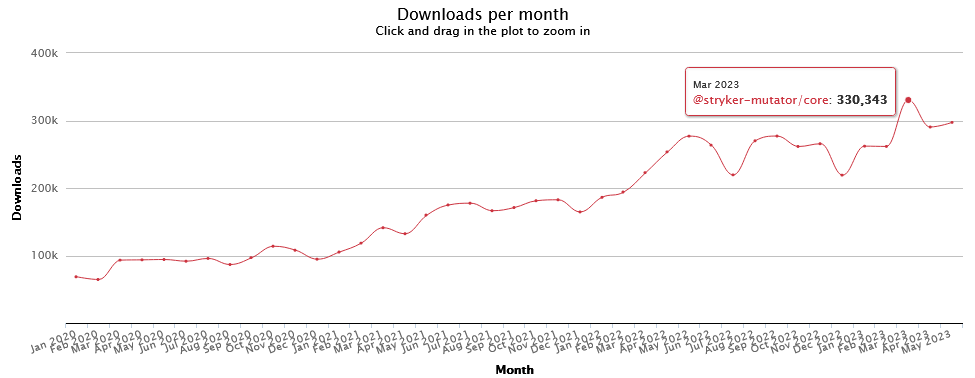
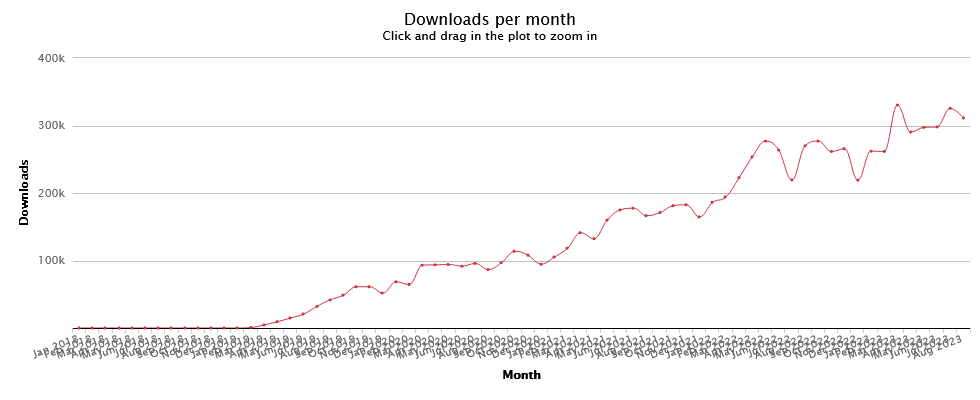
Add Q3 StrykerJS

diff --git a/2022-q4/meeting-notes.md b/2022-q4/meeting-notes.md
@@ -1,0 +1,96 @@
+# Notulen open source council
+
+> 07/12/2022
+
+## Updates
+
+- Rouke gaat een meeting / procedure starten voor selectie nieuwe sponsorprojecten
+- Bezig met opstellen beleid / visie bijdragen aan open source vanuit management
+- Hacktoberfest
+  - 55 aanmeldingen, 39 deelnemers, 51 PRs/issues/blogs
+  - Volgend jaar iets eerder in oktober
+
+## Rondje langs de projecten
+
+### StrykerJS (Nico)
+
+- 2,6M downloads dit jaar, >6M totaal
+  - Aan het stagneren? Iets minder stijging
+- v6.3 gereleased -> Allemaal tijdens hacktoberfest
+  - Jest: support more config files
+  - Emojis in clear text reporter
+  - pnmp support
+  - disableTypechecks
+  - Verbeteringen init
+  - Worker count env variable
+  - etc
+- Nieuw team: Danny, Thierry & Odin; Simon legt werkzaamheden neer
+
+### Stryker.NET (Richard)
+
+- 787k total downloads, 577 daily
+- Nieuwe features
+  - Solution context run
+  - Automatically discover solution file
+  - Math class mutator
+  - ??= mutator
+  - a ?? b mutator
+  - Object initializer mutator
+- Bugfixes
+  - Een hoop
+- Nieuw teamlid: Liam (welkom!)
+- What's next:
+  - Test results toevoegen aan report
+  - Performance tunen
+  - Lijst met issues en feature requests
+- Nieuwe afstudeerder: real time reports updaten tijdens draaien van stryker
+
+### Styker4s (Hugo)
+
+- 19k downloads per maand
+- Volgende release:
+  - Betere report
+  - Betere logging
+  - Parsing en mutating refactored
+  - Contributie: cleanTempDir
+  - Contributie: staticTempDir
+
+### Maven (Giovanni)
+
+- Niet veel aan Maven gewerkt, wel bij Hacktoberfest
+- Hacktoberfest: documentatie / features
+- What's next:
+  - Zien waar je dependencies vandaan komen (Maarten, work in progress)
+  - Nieuwe flag voor command line, `--status`, om te kijken of installatie gelukt is
+
+### Research center (Jan-Jelle)
+
+- WO afstudeeropdrachten
+  - Jan-Jelle doet een oproep om meer WO afstudeeropdrachten. 
+  - We hebben nu 1 generieke "Maak Stryker Sneller" opdracht, maar als je al een specifiek idee hebt hoe dan maakt de opdracht meer kans om gekozen te worden.
+
+- Er zijn nu 2 groepjes bezig met voor het ISEP project ("Pas software toe in de praktijk bij een bedrijf")
+  - Groepje 1 (Rouke)
+    - Performance Stryker verbeteren
+  - Groepje 2 (Hugo)
+    - Styker4JVM
+      - Begonnen met samenvoegen Stryker4Kotlin en Stryker4S
+    - Wekelijkse meeting, veel code aan het aanpassen
+  - Nieuwe ideeën voor nieuwe software opdrachten welkom
+    - 3 a 4 studenten, 2 dagen per week voor 6 maanden.
+    - Misschien vervolgopdracht voor StrykerJVM / Performance Stryker verbeteren
+
+## Rondvraag
+
+- Risico's Stryker voor Info Support
+  - Afweging risico's en voordelen
+  - In gesprek met legal
+
+- Is de open source community een "officiële" community?
+  - Nee, maar heeft wel die ambitie
+  - Moet nog visie e.d. komen
+
+- Is er nog open source tijd?
+  - Ruimte voor 1FTE, 1800 uur
+  - 876 uur opgemaakt
+  - Dus ja

diff --git a/2023-q3/slides/10-stryker-js/20-new-features.md b/2023-q3/slides/10-stryker-js/20-new-features.md
@@ -1,0 +1,9 @@
+### 🎁 New features 
+
+![ava](/img/ava.png)
+
+- [#4276](https://github.com/stryker-mutator/stryker-js/issues/4276) Configurable bail behavior for tap-runner
+- [#4266](https://github.com/stryker-mutator/stryker-js/issues/4266) EAllow using "any" testing framework with TAP support  
+
+See https://stryker-mutator.io/docs/stryker-js/tap-runner/#examples
+

diff --git a/2023-q3/slides/10-stryker-js/10-stats.md b/2023-q3/slides/10-stryker-js/10-stats.md
@@ -1,0 +1,12 @@
+### Stats
+
+- 2,386,200 downloads year to date (+25.6% YoY)
+- 9.4M downloads in total
+
+---
+
+[![](/img/downloads-stryker-js.png)](https://npm-stat.com/charts.html?package=%40stryker-mutator%2Fcore&from=2018-01-01&to=2023-09-01) <!-- .element target="_blank" -->
+
+Notes:
+1,899,593 downloads year to date 2022
+2,386,200 downloads year to date 2023

diff --git a/2023-q3/slides/10-stryker-js/40-whats-next.md b/2023-q3/slides/10-stryker-js/40-whats-next.md
@@ -1,0 +1,6 @@
+### 🔮 What's next?
+
+- [#4092](https://github.com/stryker-mutator/stryker-js/issues/4092) Real-time reporting
+- [#2855](https://github.com/stryker-mutator/stryker-js/issues/2855) Support Svelte
+- [#3229](https://github.com/stryker-mutator/stryker-js/issues/3229) Ignore mutants based on heuristics
+
